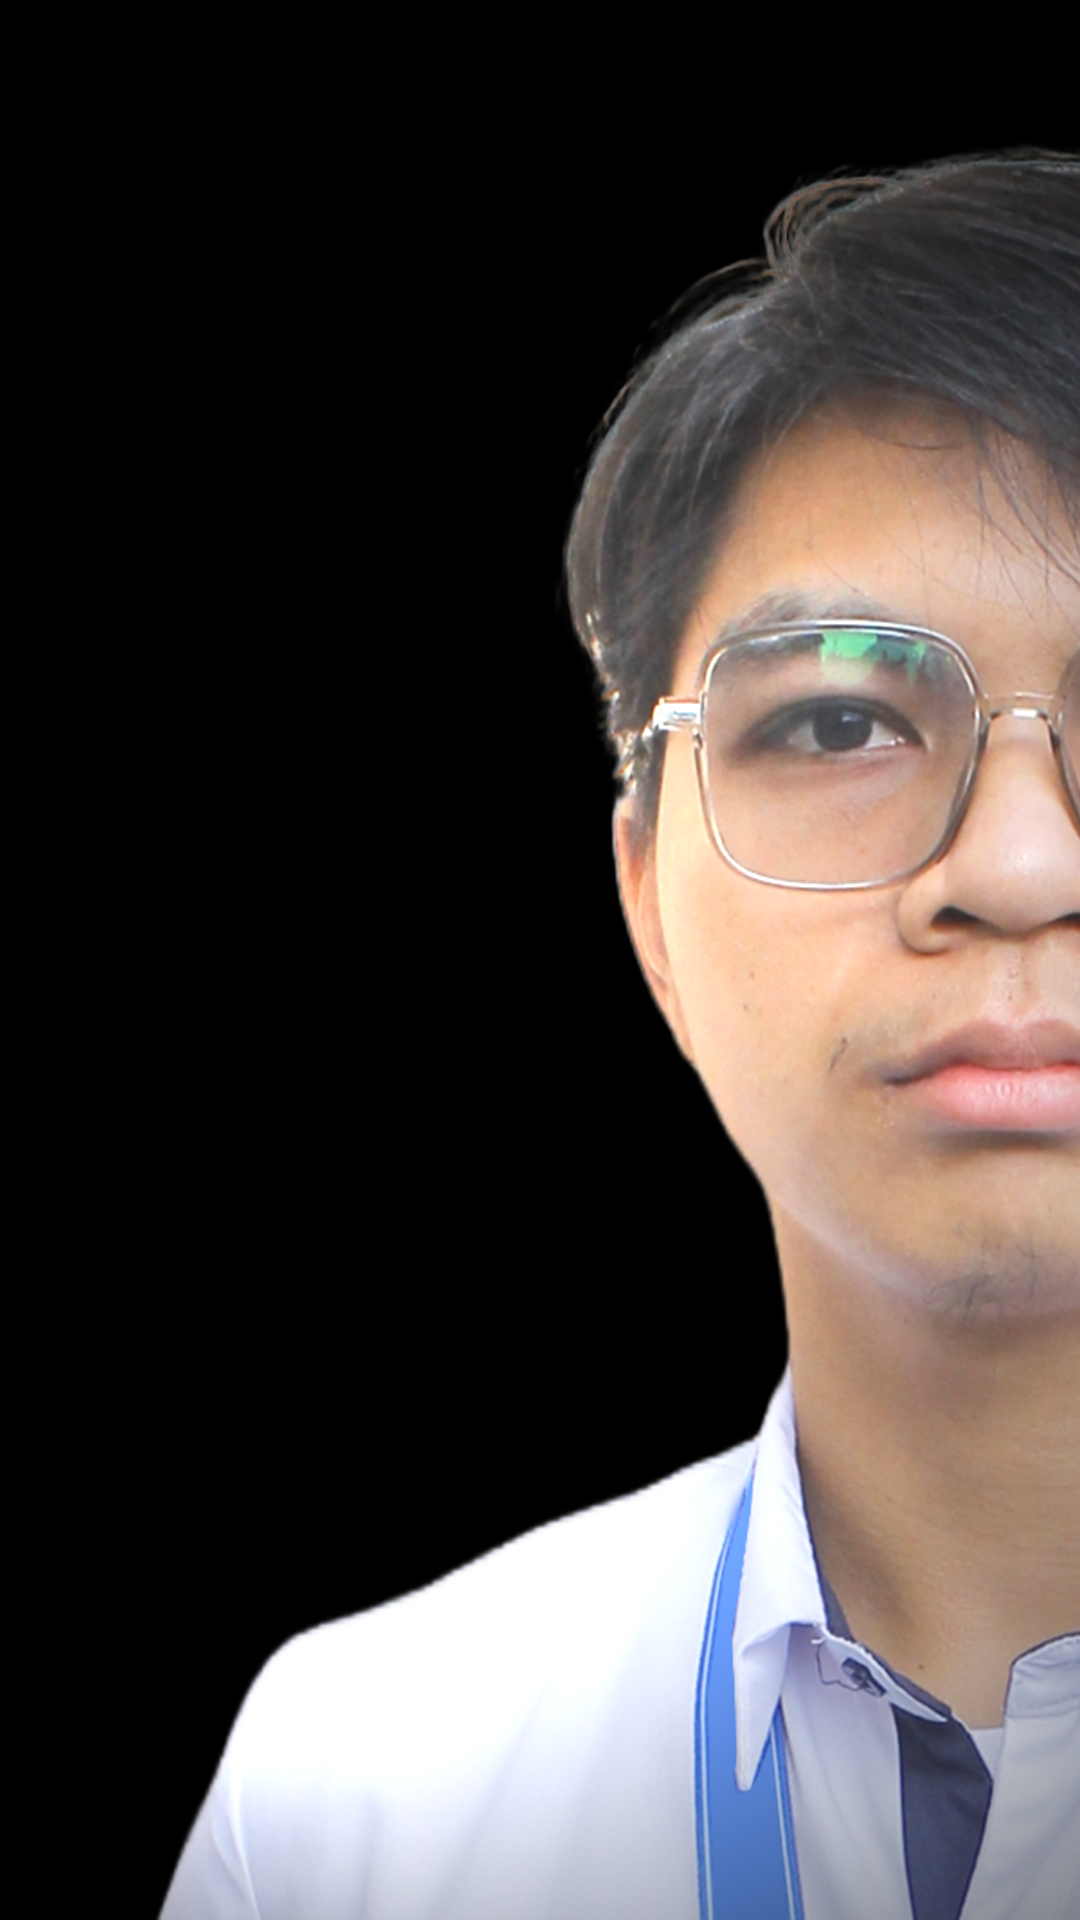
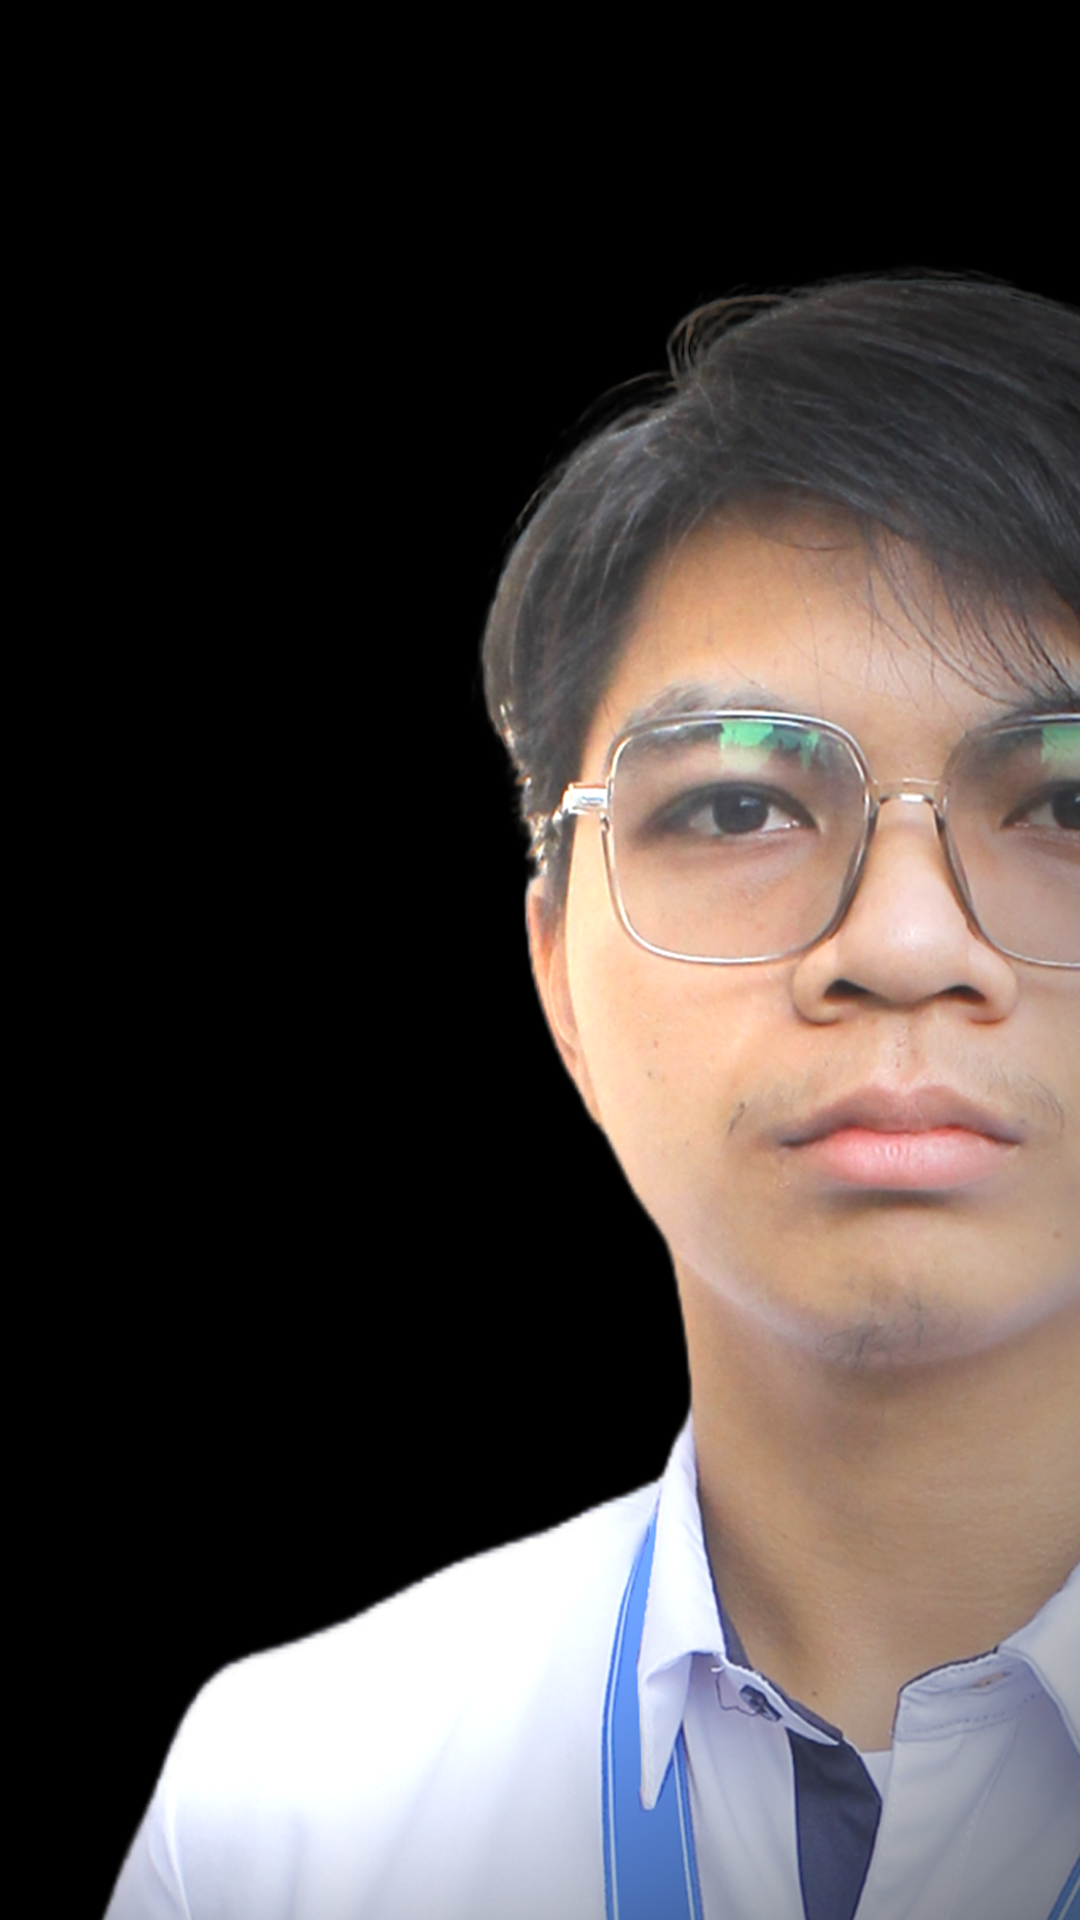
half of about me section

diff --git a/personal website/index.html b/personal website/index.html
@@ -8,7 +8,41 @@
 </head>
 <body>
     <div id="header"> 
-
+        <div class="container">
+            <nav>
+                <img alt="Jocriaus Logo" src="images/Jocriaus-Logotype.png" class="logo">
+                <ul>
+                    <li><a href="#">Home</a></li>
+                    <li><a href="#">About</a></li>
+                    <li><a href="#">Skills</a></li>
+                    <li><a href="#">Project</a></li>
+                    <li><a href="#">Contact</a></li>
+                </ul>
+            </nav>
+            <div class="header-text">  
+                <p>UI/UX Designer</p>
+                <h1>Hi, I'm <span>Jo</span>se <span>Cri</span>santo <br> <span>Aus</span>tria from Bulacan </h1>
+            </div>
+          
+        </div>
+    </div>
+    <!-- --------about-------- -->
+    <div id="about">
+        <div class="container">
+            <div class="row">
+                <div class="about-col-1">
+                    <img src="images/Front-page-pic.JPG" alt="">
+                </div>
+                <div class="about-col-2">
+                    <h1 class="sub-title">About me</h1>
+                    <p>Lorem ipsum dolor sit amet consectetur adipisicing elit. 
+                        Iure nisi eius, deserunt distinctio ullam, 
+                        libero unde enim officiis eos expedita delectus. 
+                        Odit quam quas quisquam aut quod commodi dolorum cum!</p>
+                    .ta
+                </div>
+            </div>
+        </div>
     </div>
 </body>
 </html>

diff --git a/personal website/style.css b/personal website/style.css
@@ -12,8 +12,92 @@ body{
 #header{
     width: 100%;
     height: 100vh;
-    background-image: url(images/Front-Header.png);
-    /*background-image: url(images/Website\ header.png);*/
+    background-image: url(images/Front-Header2.png);
     background-size: cover;
     background-position: center;
+}
+.container{
+    padding: 15px 10%;
+}
+nav{
+    display: flex;
+    align-items:center;
+    justify-content: space-between;
+    flex-wrap: wrap;
+}
+.logo{
+    width: 140px;
+}
+
+nav ul li{
+    display: inline-block;
+    list-style: none;
+    margin:10px 20px;   
+}
+
+nav ul li a {
+    color: #ffffff;
+    text-decoration: none;
+    font-size: 18px;
+    position: relative;
+}
+
+nav ul li a::after{
+    content:'';
+    width: 0;
+    height: 3px;
+    background: #3490DE;
+    position: absolute;
+    left: 0;
+    bottom: -6px;
+    transition: 0.5s;
+}
+
+nav ul li a:hover::after {
+    width: 100%;
+}
+
+.header-text{
+    margin-top: 20%;
+    font-size: 30px;
+}
+.header-text h1{
+    font-size: 60px;
+    margin-top: 20px;
+}
+
+.header-text h1 span{
+    color: #3490DE;
+}
+
+/* -----about----- */
+
+#about{
+    padding: 80px 0;
+    color: #ababab;
+}
+
+.row{
+    display:flex;
+    justify-content:space-between ;
+    flex-wrap: wrap;
+}
+
+.about-col-1{
+    flex-basis: 35%;   
+}
+
+.about-col-1 img{
+    width: 100%;
+    border-radius: 15px;
+}
+
+.about-col-2{
+    flex-basis: 60%;   
+}
+
+.sub-title{
+    font-size: 50px;
+    font-weight: 600;
+    color: #ffffff;
 }
